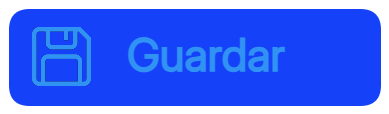
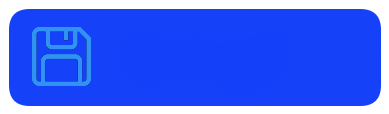
Token and full multilignual

Changed region(s): [[0.3085, 0.3158, 0.7404, 0.6316]]

diff --git a/Api/src/main/java/cr/ac/una/wssigeceuna/controller/SecurityFilter.java b/Api/src/main/java/cr/ac/una/wssigeceuna/controller/SecurityFilter.java
@@ -1,0 +1,142 @@
+ package cr.ac.una.wssigeceuna.controller;
+
+
+
+import java.io.IOException;
+import java.lang.reflect.Method;
+import java.security.Principal;
+import cr.ac.una.wssigeceuna.util.JwTokenHelper;
+import cr.ac.una.wssigeceuna.util.Secure;
+import io.jsonwebtoken.Claims;
+import io.jsonwebtoken.ExpiredJwtException;
+import io.jsonwebtoken.MalformedJwtException;
+import jakarta.annotation.Priority;
+import jakarta.ws.rs.Priorities;
+import jakarta.ws.rs.container.ContainerRequestContext;
+import jakarta.ws.rs.container.ContainerRequestFilter;
+import jakarta.ws.rs.container.ResourceInfo;
+import jakarta.ws.rs.core.Context;
+import jakarta.ws.rs.core.HttpHeaders;
+import jakarta.ws.rs.core.Response;
+import jakarta.ws.rs.core.SecurityContext;
+import jakarta.ws.rs.ext.Provider;
+
+
+
+
+
+@Provider
+@Secure
+@Priority(Priorities.AUTHENTICATION)
+
+public class SecurityFilter implements ContainerRequestFilter {
+    
+    private static final String AUTHORIZATION_SERVICE_PATH = "validarUsuario";
+    private static final String RENEWAL_SERVICE_PATH = "renovarToken";
+    private final JwTokenHelper jwTokenHelper = JwTokenHelper.getInstance();
+    private static final String AUTHENTICATION_SCHEME = "Bearer ";
+
+
+    @Context
+    private ResourceInfo resourceInfo;
+    
+    @Override
+    public void filter(ContainerRequestContext request) throws IOException {
+        Method method = resourceInfo.getResourceMethod();
+        if (method.getName().equals(AUTHORIZATION_SERVICE_PATH)) {
+            return;
+        }
+
+        // Get the Authorization header from the request
+        String authorizationHeader = request.getHeaderString(HttpHeaders.AUTHORIZATION);
+
+        // Validate the Authorization header
+        if (authorizationHeader == null || authorizationHeader.isEmpty()) {
+            abortWithUnauthorized(request, "Authorization is missing in header");
+            return;
+
+        }
+        else if (!isTokenBasedAuthentication(authorizationHeader)) {
+            abortWithUnauthorized(request, "Invalid authorization");
+            return;
+        }
+      
+
+        // Extract the token from the Authorization header
+        String token = authorizationHeader.substring(AUTHENTICATION_SCHEME.length()).trim();
+        
+        try {
+
+            // Validate the token
+            try {
+                Claims claims = jwTokenHelper.claimKey(token);
+                
+                
+                //TODO revisar
+                if(claims.containsKey("rnw") && (Boolean) claims.get("rnw")==true && !method.getName().equals(RENEWAL_SERVICE_PATH))
+                {
+                    abortWithUnauthorized(request, "INVALID");
+                }
+                
+                final SecurityContext currentSecurityContext = request.getSecurityContext();
+                request.setSecurityContext(new SecurityContext() {
+
+                    @Override
+                    public Principal getUserPrincipal() {
+                        return () -> claims.getSubject();
+                    }
+
+                    @Override
+                    public boolean isUserInRole(String role) {
+                        return true;
+                    }
+
+                    @Override
+                    public boolean isSecure() {
+                        return currentSecurityContext.isSecure();
+                    }
+
+                    @Override
+                    public String getAuthenticationScheme() {
+                        return AUTHENTICATION_SCHEME;
+                    }
+                });
+            } catch (ExpiredJwtException | MalformedJwtException e) {
+                if (e instanceof ExpiredJwtException) {
+                    abortWithUnauthorized(request, "Authorization is expired");
+                } else if (e instanceof MalformedJwtException) {
+                    abortWithUnauthorized(request, "Authorization is not correct");
+                }
+            }
+
+        } catch (Exception e) {
+            abortWithUnauthorized(request, "Invalid authorization");
+        }
+        
+        
+    }
+    
+    
+    private boolean isTokenBasedAuthentication(String authorizationHeader) {
+
+        // Check if the Authorization header is valid
+        // It must not be null and must be prefixed with "Bearer" plus a whitespace
+        // The authentication scheme comparison must be case-insensitive
+        return authorizationHeader != null && authorizationHeader.toLowerCase()
+                .startsWith(AUTHENTICATION_SCHEME.toLowerCase());
+    }
+
+    private void abortWithUnauthorized(ContainerRequestContext requestContext, String message) {
+
+        // Abort the filter chain with a 401 status code response
+        // The WWW-Authenticate header is sent along with the response
+        requestContext.abortWith(
+                Response.status(Response.Status.UNAUTHORIZED.getStatusCode(), message)
+                        .header(HttpHeaders.WWW_AUTHENTICATE,
+                                message)
+                        .build());
+    }
+    
+    
+    
+}

diff --git a/Api/src/main/java/cr/ac/una/wssigeceuna/util/JwTokenHelper.java b/Api/src/main/java/cr/ac/una/wssigeceuna/util/JwTokenHelper.java
@@ -1,0 +1,63 @@
+package cr.ac.una.wssigeceuna.util;
+
+import io.jsonwebtoken.*;
+import io.jsonwebtoken.security.Keys;
+import java.security.Key;
+import java.util.Date;
+import java.util.concurrent.TimeUnit;
+
+/**
+ *
+ * @author Kendall
+ */
+public class JwTokenHelper {
+
+    private static JwTokenHelper jwTokenHelper = null;
+    private static final long EXPIRATION_LIMIT = 1;
+    private static final long EXPIRATION_RENEWAL_LIMIT = 5;
+    private static final String AUTHENTICATION_SCHEME = "Bearer ";
+    private final Key key = Keys.secretKeyFor(SignatureAlgorithm.HS256);
+
+    private JwTokenHelper() {
+    }
+
+    public static JwTokenHelper getInstance() {
+        if (jwTokenHelper == null) {
+            jwTokenHelper = new JwTokenHelper();
+        }
+        return jwTokenHelper;
+    }
+
+    public String generatePrivateKey(String username) {
+        return AUTHENTICATION_SCHEME + Jwts
+                .builder()
+                .setSubject(username)
+                .setIssuedAt(new Date())
+                .setExpiration(getExpirationDate(false))
+                .claim("rnt", AUTHENTICATION_SCHEME + Jwts
+                        .builder()
+                        .setSubject(username)
+                        .setIssuedAt(new Date())
+                        .setExpiration(getExpirationDate(true))
+                        .claim("rnw", true)
+                        .signWith(key)
+                        .compact())
+                .signWith(key)
+                .compact();
+    }
+
+    public Claims claimKey(String privateKey) throws ExpiredJwtException, MalformedJwtException {
+        return Jwts.parser().setSigningKey(key)
+                .parseClaimsJws(privateKey)
+                .getBody();
+    }
+
+    private Date getExpirationDate(boolean renewal) {
+        long currentTimeInMillis = System.currentTimeMillis();
+        long expMilliSeconds = TimeUnit.MINUTES.toMillis(EXPIRATION_LIMIT);
+        if (renewal) {
+            expMilliSeconds = TimeUnit.MINUTES.toMillis(EXPIRATION_RENEWAL_LIMIT);
+        }
+        return new Date(currentTimeInMillis + expMilliSeconds);
+    }
+}

diff --git a/Api/src/main/java/cr/ac/una/wssigeceuna/controller/UsersController.java b/Api/src/main/java/cr/ac/una/wssigeceuna/controller/UsersController.java
@@ -10,6 +10,7 @@ import cr.ac.una.wssigeceuna.model.Users;
 import cr.ac.una.wssigeceuna.model.UsersDto;
 import cr.ac.una.wssigeceuna.service.UsersService;
 import cr.ac.una.wssigeceuna.util.CodigoRespuesta;
+import cr.ac.una.wssigeceuna.util.JwTokenHelper;
 import cr.ac.una.wssigeceuna.util.Respuesta;
 import io.swagger.v3.oas.annotations.Operation;
 import io.swagger.v3.oas.annotations.responses.ApiResponse;
@@ -49,6 +50,8 @@ public class UsersController {
             }
 
             UsersDto userDto = (UsersDto) res.getResultado("Usuario");
+            userDto.setToken(JwTokenHelper.getInstance().generatePrivateKey(user));
+
             return Response.ok(userDto).build();
         } catch (Exception ex) {
             Logger.getLogger(UsersController.class.getName()).log(Level.SEVERE,
@@ -74,6 +77,8 @@ public class UsersController {
             if (!res.getEstado()) {
                 return Response.status(res.getCodigoRespuesta().getValue()).entity(res.getMensaje()).build();
             }
+
+
 
             UsersDto userDto = (UsersDto) res.getResultado("Usuario");
             return Response.ok(userDto).build();

diff --git a/Api/src/main/java/cr/ac/una/wssigeceuna/JakartaRestConfiguration.java b/Api/src/main/java/cr/ac/una/wssigeceuna/JakartaRestConfiguration.java
@@ -6,6 +6,8 @@ import java.util.HashSet;
 import java.util.Map;
 import java.util.Set;
 import java.util.stream.Collectors;
+
+import cr.ac.una.wssigeceuna.controller.SecurityFilter;
 import org.glassfish.jersey.server.ResourceConfig;
 import cr.ac.una.wssigeceuna.controller.JsonbContextResolver;
 import jakarta.ws.rs.ApplicationPath;
@@ -30,8 +32,8 @@ public class JakartaRestConfiguration extends ResourceConfig {
         Set<String> providerClassNames = new HashSet() {
             {
                 add(JsonbContextResolver.class.getName());
-                // add(ConstraintViolationExceptionMapper.class.getName());
-                // add(SecurityFilter.class.getName());
+                //add(ConstraintViolationExceptionMapper.class.getName());
+                add(SecurityFilter.class.getName());
             }
         };
 

diff --git a/Mails/src/main/java/cr/ac/una/mails/model/UsersDto.java b/Mails/src/main/java/cr/ac/una/mails/model/UsersDto.java
@@ -31,6 +31,9 @@ public class UsersDto {
     public AreasDto areas;
 
 
+    private String token;
+
+
     //
     // public List<FollowsDto> follows;
     //
@@ -57,6 +60,9 @@ public class UsersDto {
         this.areas = new AreasDto();
         this.roles = FXCollections.observableArrayList();
         this.rolesDtoEliminados = FXCollections.observableArrayList();
+        this.token = "";
+
+
     }
 
     public Long getId() {
@@ -226,8 +232,12 @@ public class UsersDto {
     }
 
 
-    public String getUsuFotoBase64() {
-        return photo != null ? Base64.getEncoder().encodeToString(photo) : null;
+    public String getToken() {
+        return token;
+    }
+
+    public void setToken(String token) {
+        this.token = token;
     }
 
     // Setter para establecer la foto desde una cadena Base64

diff --git a/Api/src/main/java/cr/ac/una/wssigeceuna/model/UsersDto.java b/Api/src/main/java/cr/ac/una/wssigeceuna/model/UsersDto.java
@@ -101,6 +101,8 @@ public class UsersDto implements Serializable {
 
     public List<GestionsDto> approvers;
 
+    private String token;
+
     public UsersDto() {
         this.modified = false;
         this.roles = new ArrayList<>();
@@ -321,6 +323,14 @@ public class UsersDto implements Serializable {
 
     public void setApprovers(List<GestionsDto> approvers) {
         this.approvers = approvers;
+    }
+
+    public String getToken() {
+        return token;
+    }
+
+    public void setToken(String token) {
+        this.token = token;
     }
 
 }

diff --git a/Api/src/main/java/cr/ac/una/wssigeceuna/util/Secure.java b/Api/src/main/java/cr/ac/una/wssigeceuna/util/Secure.java
@@ -1,0 +1,20 @@
+package cr.ac.una.wssigeceuna.util;
+import jakarta.ws.rs.NameBinding;
+import java.lang.annotation.ElementType;
+import java.lang.annotation.Retention;
+import java.lang.annotation.RetentionPolicy;
+import java.lang.annotation.Target;
+
+/**
+ *
+ * @author Kendall
+ */
+
+@NameBinding
+@Retention(RetentionPolicy.RUNTIME)
+@Target({ElementType.TYPE,ElementType.METHOD})
+public @interface Secure {
+
+
+
+}
